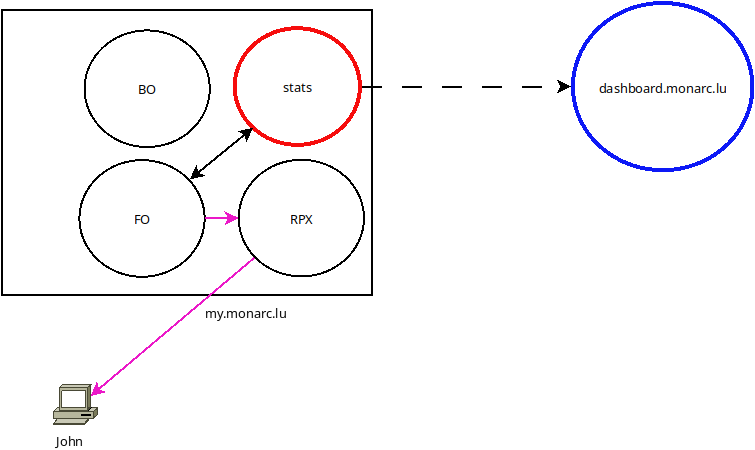
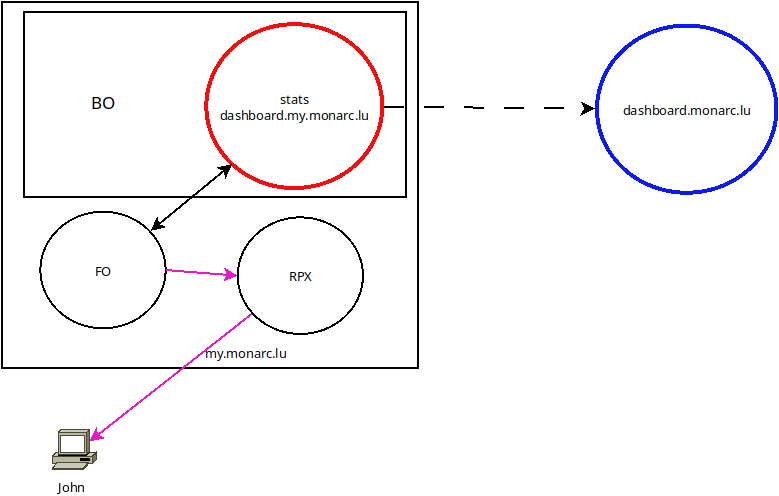
chg: [documentation] update architecture presentation for the organization level.

diff --git a/docs/architecture.rst b/docs/architecture.rst
@@ -1,7 +1,22 @@
 Architecture
 ============
 
-These architecture diagrams presents the idea behind the decentralized nature
+Higher level architecture 
+-------------------------
+
+.. image:: _static/architecture-stats-organization-level.png
+   :alt: Organization level
+
+
+A company has the possibility to `push stats <command-line-interface.html#pushing-data>`_
+from selected clients with the same
+account on, for example, dashboard.monarc.lu. The service behind dashboard.monarc.lu
+is operated by CASES Luxembourg and aims to provide relevant data about the
+current cybersecurity trends, focused in the Luxembourg area.
+
+
+
+These following diagrams presents the idea behind the decentralized nature
 of the Stats Service API.
 
 
@@ -80,19 +95,6 @@ Important notes
     It is as well possible to run your own alternative to dashboard.monarc.lu. And then
     you can configure the variable *REMOTE_STATS_SERVER* of your local Stats Service
     instance with the address of your "global" instance.
-
-
-Organization level
-------------------
-
-.. image:: _static/architecture-stats-organization-level.png
-   :alt: Higher architecture level
-
-A company has the possibility to `push stats <command-line-interface.html#pushing-data>`_
-from selected clients with the same
-account on, for example, dashboard.monarc.lu. The service behind dashboard.monarc.lu
-is operated by CASES Luxembourg and aims to provide relevant data about the
-current cybersecurity trends, focused in the Luxembourg area.
 
 
 
